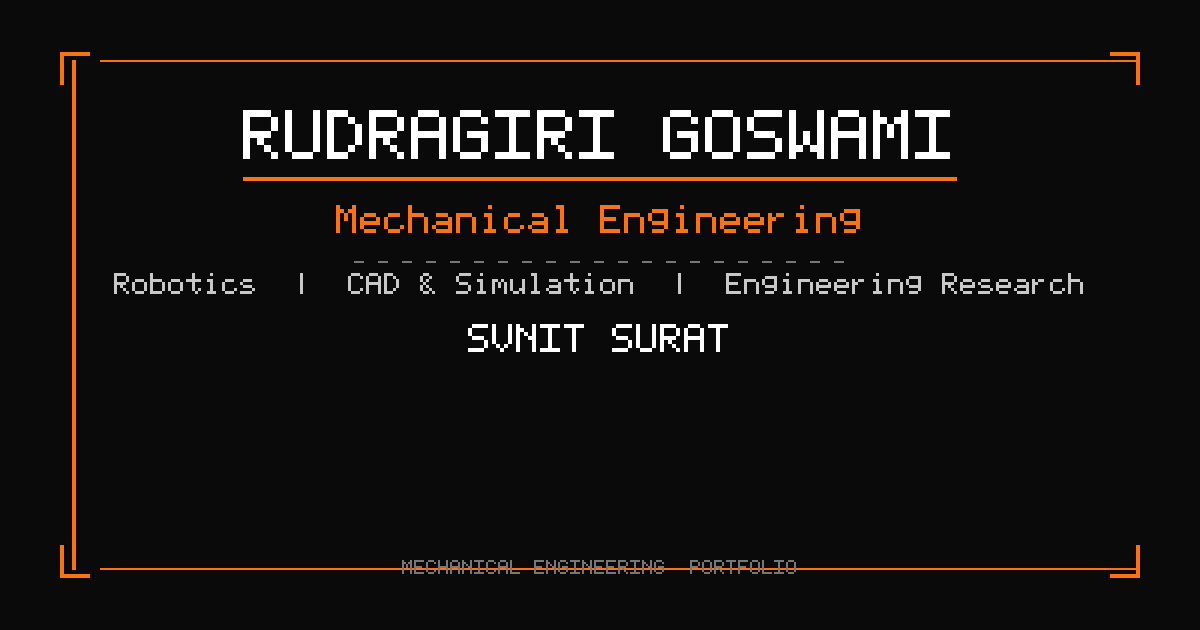
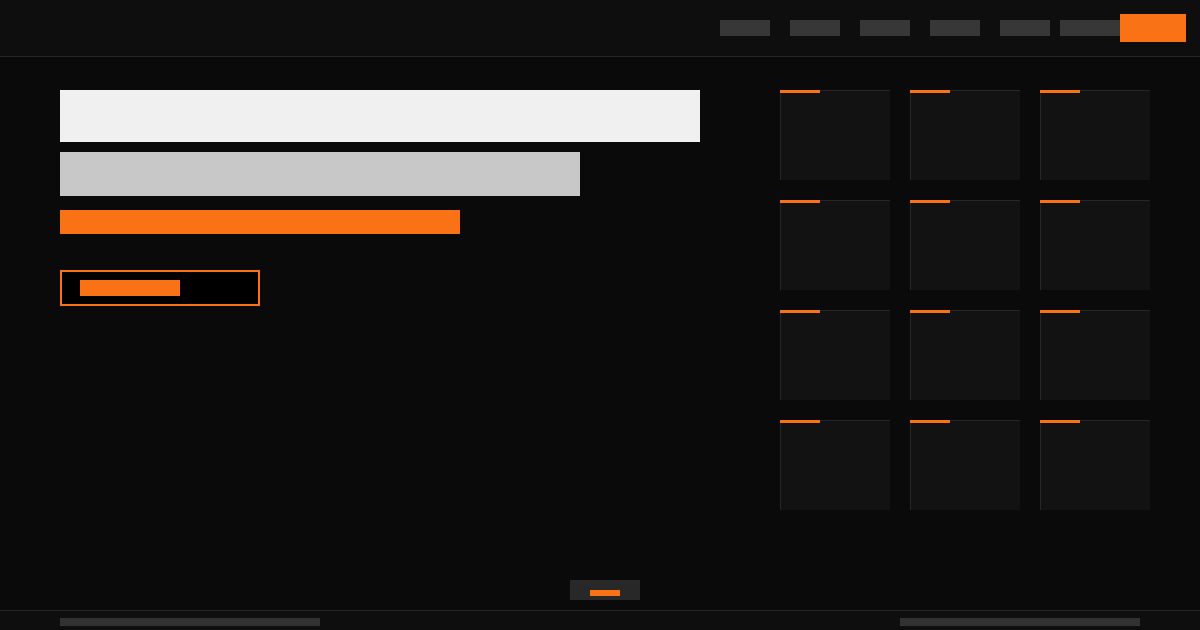
Content: DRISHTI naming, project teamLines, Radiax GLB swap, LF cert button removed, Resume URL, em dashes, OG image

diff --git a/src/content/portfolio.ts b/src/content/portfolio.ts
@@ -435,7 +435,7 @@ export const achievements: {
   },
   {
     title: "Institute Rank 1 - Grand Robo-Prix (GRP) 2024",
-    organization: "DRISHTI - A REVOLUTIONARY CONCEPT, SVNIT Surat",
+    organization: "DRISHTI - A Revolutionary Concept, SVNIT Surat",
     description: "Autonomous Line Follower Robot",
   },
   {
@@ -546,8 +546,8 @@ export type ShowcaseProject = {
 
 /** RADIAX - CDN URLs of the GLB CAD models for each design iteration. */
 // GLB files live in public/models so these root-relative URLs work from every route.
-export const radiaxIterationOneModelUrl = "/models/AGV_I1_PF.glb";
-export const radiaxIterationTwoModelUrl = "/models/AGV_I1_F.glb";
+export const radiaxIterationOneModelUrl = "/models/AGV_I1_F.glb";
+export const radiaxIterationTwoModelUrl = "/models/AGV_I1_PF.glb";
 /** RADIAX - technical documentation link once provided. */
 export const radiaxDocumentationUrl: string | undefined =
   "https://drive.google.com/file/d/1k7VhnCWHyE5CXYLapofIDBBYXNEa6ldD/view?usp=drive_link";
@@ -556,7 +556,7 @@ export const showcaseProjects: ShowcaseProject[] = [
   {
     id: "sentinel",
     title: "SENTINEL - Dual Robotic System for Land Restoration and Afforestation",
-    teamLine: "DRISHTI - Robotics Club, SVNIT | Team Innovation",
+    teamLine: "TEAM INNOVATION | Team Lead | DRISHTI - A Revolutionary Concept",
     overview:
       "A dual-robotic system comprising SENTINEL-Alpha (The Soil Analyst) and SENTINEL-Beta (The Planter), developed to support land restoration and afforestation through soil assessment, targeted plantation, nutrient delivery, and sustainable land-management practices.",
     tags: ["Robotics", "Mechanism Design", "System Architecture", "Land Restoration", "Afforestation", "Sustainable Agriculture", "AI/ML", "RaaS"],
@@ -620,7 +620,7 @@ export const showcaseProjects: ShowcaseProject[] = [
     id: "aar",
     title: "AAR: Autonomous Agricultural Robot for Precision Farming",
     badge: "GUJCOST Proposal",
-    teamLine: "Team DRISHTI | Team Lead",
+    teamLine: "TEAM INNOVATION | Team Lead | DRISHTI - A Revolutionary Concept",
     overview:
       "AAR is an autonomous agricultural robot designed for precision farming, integrating soil sensing, autonomous navigation, targeted spraying, and structured field traversal to support data-driven and resource-efficient agricultural operations.",
     tags: ["Precision Farming", "Autonomous Navigation", "Soil Sensing", "Targeted Spraying"],
@@ -634,7 +634,7 @@ export const showcaseProjects: ShowcaseProject[] = [
     id: "radiax",
     title: "RADIAX: Automated Guided Vehicle (AGV) for Radiopharmaceutical Material Handling",
     badge: "GUJCOST Proposal",
-    teamLine: "Team DRISHTI | Technical Member",
+    teamLine: "TEAM INNOVATION | DRISHTI - A Revolutionary Concept",
     overview:
       "A proposed compact Automated Guided Vehicle (AGV) designed for the safe and precise transportation of radioactive vials and lead-shielded radiopharmaceutical containers within controlled radiopharmacy environments.",
     tags: ["AGV", "Mechanical Design", "ROS 2", "Mecanum Drive"],
@@ -645,7 +645,7 @@ export const showcaseProjects: ShowcaseProject[] = [
     id: "swach",
     title: "SWACH: Smart Waste Autonomous Collector and Handler",
     badge: "GUJCOST Proposal",
-    teamLine: "Team DRISHTI | Technical Member",
+    teamLine: "TEAM INNOVATION | DRISHTI - A Revolutionary Concept",
     overview:
       "SWACH (Smart Waste Autonomous Collector and Handler) is an innovative solar-powered autonomous waste management robot designed for automated waste collection and handling in public and community spaces. The system integrates waste detection, autonomous navigation, collection, segregation, and disposal, with camera and sensor-based perception and solar-assisted power management.",
     tags: ["Waste Collection", "Waste Segregation", "Autonomous Navigation", "Solar Power"],
@@ -655,10 +655,10 @@ export const showcaseProjects: ShowcaseProject[] = [
   {
     id: "stabilo",
     title: "STABILO - Rally Car Suspension System",
-    teamLine: "MAKERNOVA 2.0 · DRISHTI, SVNIT",
-    event: "MAKERNOVA 2.0 · DRISHTI, SVNIT",
+    teamLine: "MAKERNOVA 2.0 · DRISHTI - A Revolutionary Concept",
+    event: "MAKERNOVA 2.0 · DRISHTI - A Revolutionary Concept",
     overview:
-      "STABILO, a model rally car featuring a non-Grashof four-bar coil spring suspension, was designed and fabricated as part of MAKERNOVA 2.0 conducted by DRISHTI, SVNIT. The prototype had overall dimensions of 300 × 260 × 98 mm (wheelbase × track width × ground clearance), with a 420 × 170 mm chassis and a 2.45 N/mm spring constant.",
+      "STABILO, a model rally car featuring a non-Grashof four-bar coil spring suspension, was designed and fabricated as part of MAKERNOVA 2.0 conducted by DRISHTI - Robotics Club, SVNIT. The prototype had overall dimensions of 300 × 260 × 98 mm (wheelbase × track width × ground clearance), with a 420 × 170 mm chassis and a 2.45 N/mm spring constant.",
     tags: [
       "SolidWorks",
       "CAD Design",
@@ -670,7 +670,7 @@ export const showcaseProjects: ShowcaseProject[] = [
     achievementPreview: [],
     caseStudy: {
       overview: [
-        "STABILO, a model rally car featuring a non-Grashof four-bar coil spring suspension, was designed and fabricated as part of MAKERNOVA 2.0 conducted by DRISHTI, SVNIT. The prototype had overall dimensions of 300 × 260 × 98 mm (wheelbase × track width × ground clearance), with a 420 × 170 mm chassis and a 2.45 N/mm spring constant.",
+        "STABILO, a model rally car featuring a non-Grashof four-bar coil spring suspension, was designed and fabricated as part of MAKERNOVA 2.0 conducted by DRISHTI - Robotics Club, SVNIT. The prototype had overall dimensions of 300 × 260 × 98 mm (wheelbase × track width × ground clearance), with a 420 × 170 mm chassis and a 2.45 N/mm spring constant.",
       ],
       technicalDescription:
         "The team developed an independent, passive, double-wishbone-inspired suspension architecture based on a non-Grashof four-bar linkage, using coil springs for passive load support and shock absorption. Multiple CAD variants were explored during design selection, considering mechanism feasibility, wheel movement, structural integrity, and manufacturability, before fabrication and physical testing.",
@@ -804,10 +804,6 @@ export const showcaseProjects: ShowcaseProject[] = [
         url: lineFollowerAbstract.url,
         embedUrl:
           "https://drive.google.com/file/d/1j_mIGrRmKaWGbeXVyb1MYZqXDC9VWlet/preview",
-      },
-      cft: {
-        label: "CFT - Line Follower",
-        url: "https://drive.google.com/file/d/1jXchj9yE7X4t8AADi3tHUPi_JV3pLDJo/view?usp=drive_link",
       },
 
     },

diff --git a/src/components/portfolio/ProjectCaseStudy.tsx b/src/components/portfolio/ProjectCaseStudy.tsx
@@ -425,7 +425,7 @@ export function ProjectCaseStudy({
             {(study.achievements.length > 0 || study.certificate) && (
             <Block title="Competition achievements">
               <div className="grid gap-6 lg:grid-cols-2">
-                {/* Certificate column — renders LEFT when certificateFirst, otherwise RIGHT */}
+                {/* Certificate column - renders LEFT when certificateFirst, otherwise RIGHT */}
                 {study.certificate && study.certificateFirst && (
                 <div>
                   <p className="font-mono text-[10px] uppercase text-muted-foreground">
@@ -465,7 +465,7 @@ export function ProjectCaseStudy({
                   ))}
                 </ul>
                 )}
-                {/* Certificate column — renders RIGHT when not certificateFirst (default) */}
+                {/* Certificate column - renders RIGHT when not certificateFirst (default) */}
                 {study.certificate && !study.certificateFirst && (
                 <div>
                   <p className="font-mono text-[10px] uppercase text-muted-foreground">

diff --git a/src/routes/index.tsx b/src/routes/index.tsx
@@ -2,7 +2,7 @@ import { createFileRoute } from "@tanstack/react-router";
 import { AtSign, Linkedin, Phone } from "lucide-react";
 
 const RESUME_URL =
-  "https://drive.google.com/file/d/1ARk7t-DKg4gUeSjHCAt1qJhacHejvF1R/view?usp=drive_link";
+  "https://drive.google.com/file/d/1uLX40wcBff5RFNAqkEh0VZ2I_zoHDdj_/view?usp=drive_link";
 const orderedShowcaseProjects = [...showcaseProjects].sort((a, b) => {
   if (a.id === "pathfinder" && b.id === "line-follower") return -1;
   if (a.id === "line-follower" && b.id === "pathfinder") return 1;
